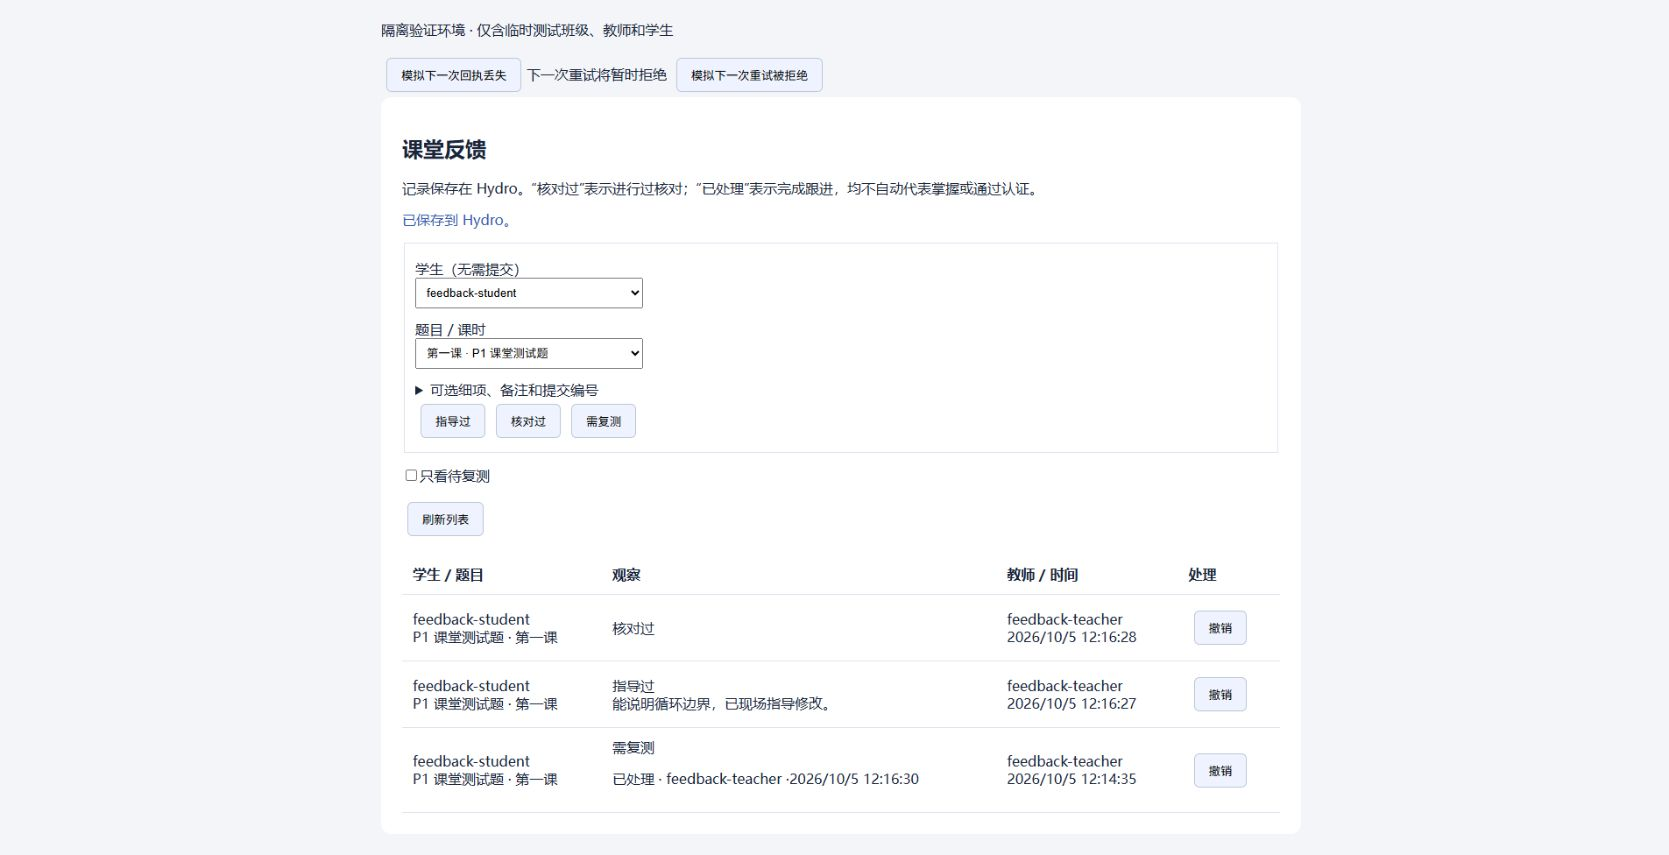
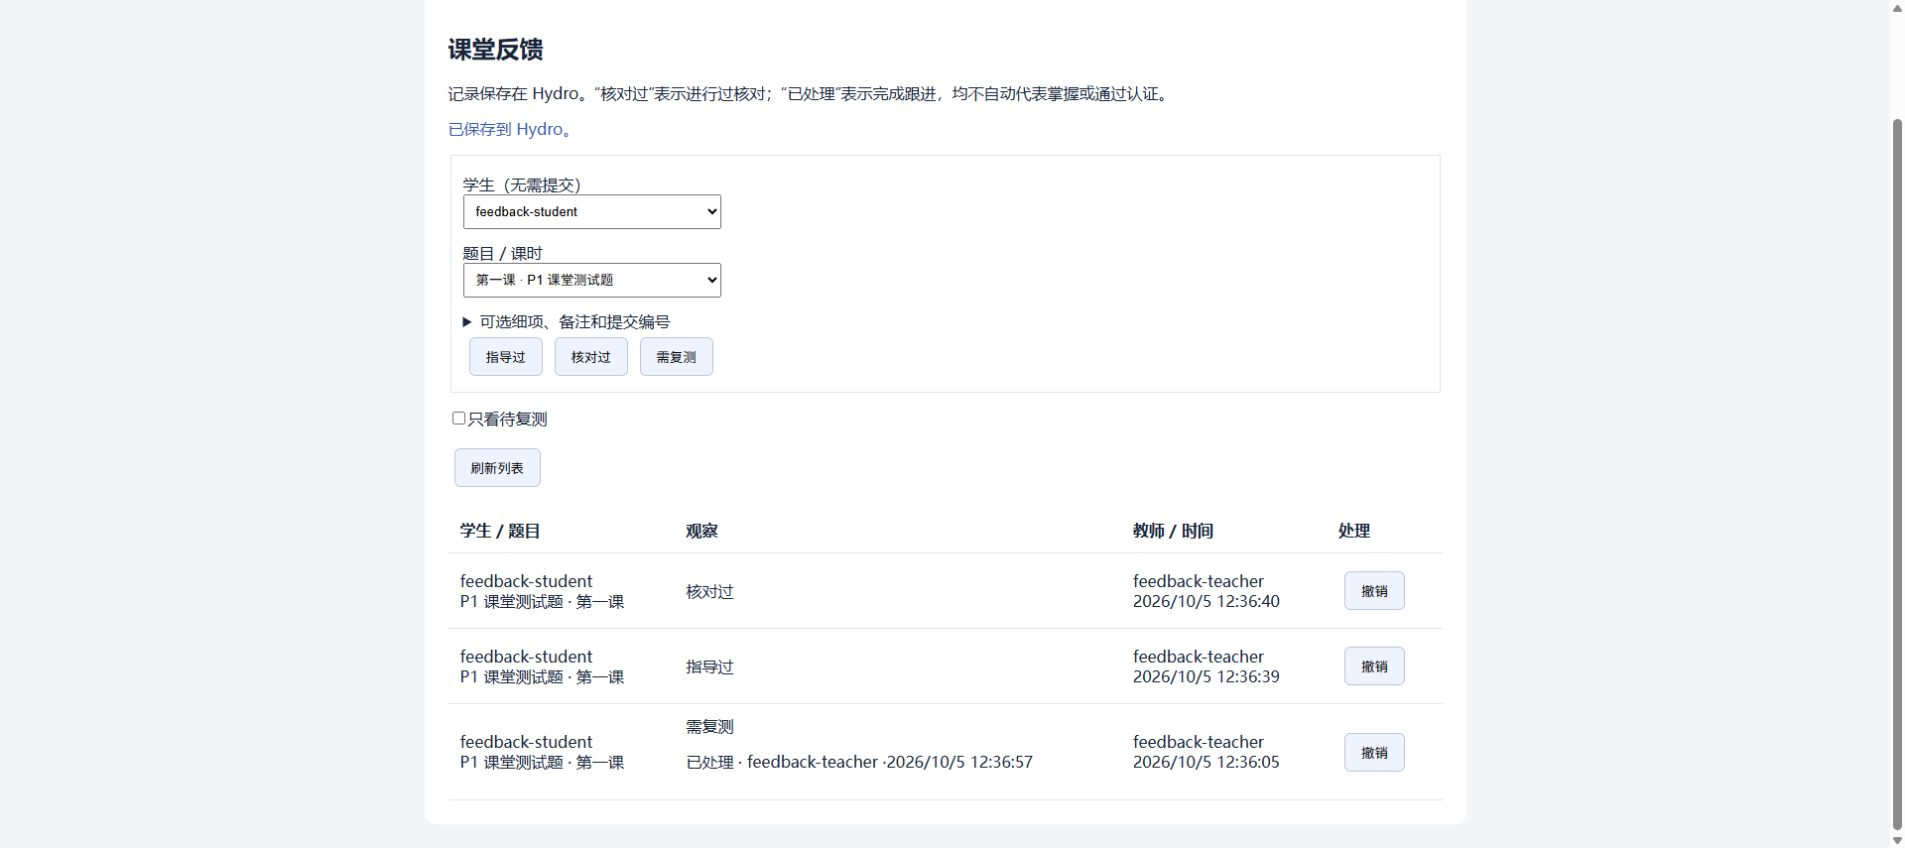
fix(feedback): match page initialization to template

diff --git a/test/classroom-feedback-browser.js b/test/classroom-feedback-browser.js
@@ -1,4 +1,4 @@
-// Local component/HTTP smoke harness. No production config, database or accounts.
+// Local page/HTTP smoke harness. No production config, database or accounts.
 const fs = require('node:fs');
 const path = require('node:path');
 const os = require('node:os');
@@ -51,11 +51,14 @@ MongoMemoryServer.create = async function (...args) {
     const endpoint = `/d/${domainId}/course/${tid}/feedback`;
     const bundle = await esbuild.build({
         stdin: {
-            contents: `import React from 'react'; import {createRoot} from 'react-dom/client';
-                import Feedback from './packages/ui-default/components/classroom-feedback';
-                createRoot(document.getElementById('feedback-root')).render(<Feedback url=${JSON.stringify(endpoint)} />);`,
+            contents: `import page from './packages/ui-default/pages/classroom_feedback.page';
+                const name = document.documentElement.dataset.page;
+                if (!page.isNameMatch(name)) throw new Error('Feedback page initialization does not match template: ' + name);
+                page.afterLoading(name);`,
             resolveDir: path.resolve(__dirname, '..'), loader: 'tsx',
-        }, bundle: true, write: false, platform: 'browser', define: { 'process.env.NODE_ENV': '"development"' },
+        }, bundle: true, write: false, platform: 'browser',
+        alias: { vj: path.resolve(__dirname, '../packages/ui-default') },
+        define: { 'process.env.NODE_ENV': '"development"' },
     });
     const { Handler } = require('../packages/hydrooj/src/service/server');
     const { ForbiddenError } = require('../packages/hydrooj/src/error');
@@ -83,17 +86,25 @@ MongoMemoryServer.create = async function (...args) {
         async get() {
             this.session.uid = teacherUid;
             this.session.scope = PERM.PERM_ALL.toString();
-            this.response.type = 'text/html';
-            this.response.body = `<!DOCTYPE html><html lang="zh"><meta charset="utf-8"><title>Hydro 课堂反馈 · 隔离验证</title>
+            this.response.redirect = endpoint;
+        }
+    });
+    ctx.on('handler/after/ClassroomFeedback#get', (handler) => {
+        if (handler.request.headers.accept?.includes('application/json')) return;
+        // Match the normal renderer's template-derived data-page, then load the
+        // actual page module. Directly mounting the component would miss routing bugs.
+        const pageName = handler.response.template.split('.')[0];
+        handler.response.template = null;
+        handler.response.type = 'text/html';
+        handler.response.body = `<!DOCTYPE html><html lang="zh" data-page="${pageName}"><meta charset="utf-8"><title>Hydro 课堂反馈 · 隔离验证</title>
                 <style>body{font-family:system-ui;margin:24px auto;max-width:1050px;padding:0 16px;color:#17243a;background:#f3f5f8}
-                #feedback-root{background:white;padding:24px;border-radius:12px}label{display:block;margin:14px 0}select,textarea,input{display:block;padding:8px;min-width:260px}
+                #classroom-feedback{background:white;padding:24px;border-radius:12px}label{display:block;margin:14px 0}select,textarea,input{display:block;padding:8px;min-width:260px}
                 input[type=checkbox]{display:inline;min-width:0}textarea{width:90%}button{padding:9px 16px;margin:6px;border:1px solid #b9c6d8;background:#edf3ff;border-radius:6px;cursor:pointer}
                 button:disabled{opacity:.45}table{width:100%;border-collapse:collapse}td,th{padding:12px;border-bottom:1px solid #dde4ef;text-align:left}p[role=status]{color:#245ab4}fieldset{border:1px solid #dce3ee}</style>
                 <p>隔离验证环境 · 仅含临时测试班级、教师和学生</p>
                 <button onclick="fetch('/feedback-preview-fault',{method:'POST',headers:{'Content-Type':'application/json'},body:'{}'}).then(()=>document.getElementById('fault').textContent='下一次保存将模拟回执丢失')">模拟下一次回执丢失</button><span id="fault"></span>
                 <button onclick="fetch('/feedback-preview-fault',{method:'POST',headers:{'Content-Type':'application/json'},body:'{&quot;deny&quot;:true}'}).then(()=>document.getElementById('fault').textContent='下一次重试将暂时拒绝')">模拟下一次重试被拒绝</button>
-                <div id="feedback-root"></div><script src="/feedback-preview.js"></script></html>`;
-        }
+                <div id="classroom-feedback"></div><script>window.Hydro={};</script><script src="/feedback-preview.js"></script></html>`;
     });
     ctx.Route('feedback_preview_js', '/feedback-preview.js', class FeedbackPreviewScriptHandler extends Handler {
         async get() { this.response.type = 'application/javascript'; this.response.body = bundle.outputFiles[0].text; }

diff --git a/packages/ui-default/pages/classroom_feedback.page.tsx b/packages/ui-default/pages/classroom_feedback.page.tsx
@@ -3,7 +3,7 @@ import ReactDOM from 'react-dom/client';
 import ClassroomFeedback from 'vj/components/classroom-feedback';
 import { NamedPage } from 'vj/misc/Page';
 
-export default new NamedPage(['course_feedback', 'homework_feedback'], () => {
+export default new NamedPage('classroom_feedback', () => {
   const container = document.getElementById('classroom-feedback');
   if (container) ReactDOM.createRoot(container).render(<ClassroomFeedback url={window.location.pathname} />);
 });

diff --git a/review/HYDRO-LOCAL-FEEDBACK-VERIFICATION-2026-10-05.md b/review/HYDRO-LOCAL-FEEDBACK-VERIFICATION-2026-10-05.md
@@ -32,7 +32,7 @@ H0 对照提交：`46e626892f7d061fcd490f9721b30feaf6f96c7f`；目标分支：`c
 
 集成还覆盖：跨域与跨活动、伪造身份／路由参数、提交关系、多课时歧义、学生调班／节点变更后的历史查询、旧请求重新授权、开关、JSON／同源约束、代入模式、长度、强制限流、真实插入故障及提交后回执丢失。历史事实可以由当前授课教师管理；新观察始终使用当前名单。撤销限原教师或域管理者。
 
-测试使用临时配置、临时主目录和临时 MongoDB；不加载工作站正式 addon/config。原完整测试在 8888 以外端口会因已有用例的固定 Origin 失败，按预期端口重跑已通过。
+反馈独立集成和浏览器入口使用临时配置、临时主目录和临时 MongoDB，不加载工作站正式 addon/config。完整回归使用临时 HYDRO_PROFILE 和临时 MongoDB；原完整入口仍会向 Windows 主目录的 Hydro static 路径写入测试静态资源，没有使用 WSL 容器的安装或配置。原完整测试在 8888 以外端口会因已有用例的固定 Origin 失败，按预期端口重跑已通过。
 
 ## 容器实测与记忆
 
@@ -51,11 +51,13 @@ H0 对照提交：`46e626892f7d061fcd490f9721b30feaf6f96c7f`；目标分支：`c
 
 ## 浏览器实测范围
 
-`test/classroom-feedback-browser.js` 构建真实反馈组件，使用真实 Hydro Handler 和临时数据库。它仅绑定本机地址，有显著隔离环境标识，故障开关和固定测试身份只存在于测试脚本。
+`test/classroom-feedback-browser.js` 构建真实 `classroom_feedback.page.tsx` 页面模块，使用真实 Hydro Handler、课程反馈路径和临时数据库。它仅绑定本机地址，有显著隔离环境标识，故障开关和固定测试身份只存在于测试脚本。
+
+最后入口检查发现 NamedPage 曾误用路由名，已修正为模板对应的 `classroom_feedback`。验证脚本依据 Handler 的实际模板生成 data-page，通过真实页面的 isNameMatch／afterLoading 初始化，避免直接挂载组件遗漏入口问题。Chrome 中确认 data-page 为 `classroom_feedback`、真实课程路径下组件已挂载；三个动作保存成功，处理复测后待办为空，全部历史为 3 条观察＋1 条处理。此检查仍采用隔离布局，不能替代完整默认界面验收。
 
 已验证无提交学生的三个按钮、默认可空细项、备注显示、回执丢失后的同键重试、待复测筛选、处理后移出待办。输入含 `<script>` 的备注按文本显示，表格中 script 节点数为 0。第一次回执丢失后数据库已有 3 条观察，重试后仍为 3 条，复测观察仅 1 条。
 
-最终版本另验“提交后回执丢失 → 原操作重试被临时拒绝（403）→ 原键再重试成功”：只有 1 条复测事件、1 个请求键。501 字备注在页面明确拒绝；随后正常录入指导／核对并处理复测，数据库为 3 条观察＋1 条处理、4 个唯一键。截图仅为隔离组件页面，非完整默认 UI：
+组件版本另验“提交后回执丢失 → 原操作重试被临时拒绝（403）→ 原键再重试成功”：只有 1 条复测事件、1 个请求键。501 字备注在页面明确拒绝；随后正常录入指导／核对并处理复测，数据库为 3 条观察＋1 条处理、4 个唯一键。截图更新为真实页面模块初始化后的隔离布局，非完整默认 UI：
 
 ![Hydro 反馈组件隔离验证](assets/hydro-feedback-preview-2026-10-05.jpg)
 
@@ -77,7 +79,7 @@ H0 对照提交：`46e626892f7d061fcd490f9721b30feaf6f96c7f`；目标分支：`c
 
 ## 剩余验收与试点步骤
 
-H1 完成；H2 代码完成、组件验证完成；H3 本地加固与隔离验证完成，上线验收部分完成，保持 Draft。
+H1 完成；H2 代码完成、组件与独立页面初始化验证完成；H3 本地加固与隔离验证完成，上线验收部分完成，保持 Draft。
 
 1. 解决或正式确认既有类型／UI／lint 门禁，并用完整默认界面验证课程管理和提交预填，以及浏览器撤销确认路径。
 2. 获准部署后，按仓库指定私有 registry 脚本更新目标本地容器；本轮未发布、未更新运行包、未部署、未重启服务或 Docker。

diff --git a/review/hydro-local-feedback-development-plan-2026-10-05.md b/review/hydro-local-feedback-development-plan-2026-10-05.md
@@ -49,7 +49,7 @@
 
 H1 新增 `model/classroomFeedback.ts`、`lib/classroomFeedbackAccess.ts`、`handler/classroom-feedback.ts`；使用 Hydro 本地集合和会话，不调用 AI-EDU。`SELF` 权限必须结合所有者、维护者或所分配班级的真实教师关系，最后编辑者不视为永久授课授权。
 
-H2 新增反馈组件与独立页面，并接入课程管理、课程详情和提交记录页。页面入口与接口采用同一套授课关系判断；提交编号可空，同题多课时不能推断时保持未选。
+H2 新增反馈组件与独立页面，并接入课程管理、课程详情和提交记录页。页面入口与接口采用同一套授课关系判断；提交编号可空，同题多课时不能推断时保持未选。独立反馈页以模板名 `classroom_feedback` 初始化，隔离浏览器验证加载真实页面模块。
 
 H3 增加隔离数据库／HTTP 测试入口、浏览器故障验证环境、容器备份恢复脚本。Node 22.20.0、TypeScript 6.0.3 环境中完整测试 198 项通过，包含 49 项核心单元测试、17 项反馈集成测试。容器 Node 22.16.0 中实际备份恢复通过。
 
@@ -193,7 +193,7 @@ H1 必须校验：
 
 H1-H3 初步按 5-8 个开发人日规划，前提是熟悉仓库且已有可运行环境；核对完整构建和权限模型后重估。不以赶时间为由合并未联调功能。
 
-本轮状态：H1 完成，H2 代码完成并通过组件冒烟；H3 隔离验证完成，上线门禁仍有既有环境失败，完整默认 UI 及真实班级试点未完成。材料条件未开发，按原定后续顺序处理。不得将这些剩余事项合并标为“已完成”。
+本轮状态：H1 完成，H2 代码完成并通过组件及独立页面初始化冒烟；H3 隔离验证完成，上线门禁仍有既有环境失败，完整默认 UI 及真实班级试点未完成。材料条件未开发，按原定后续顺序处理。不得将这些剩余事项合并标为“已完成”。
 
 ## 9. 待执行集成验收
 
